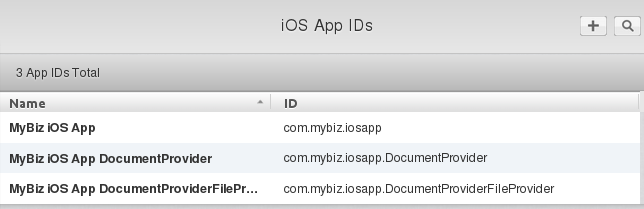
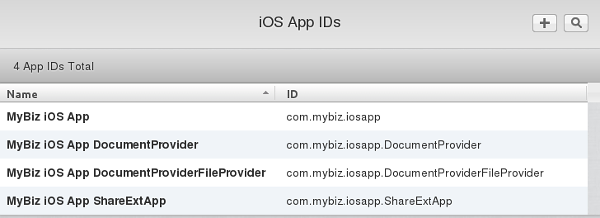
update provisioning profiles

diff --git a/admin_manual/enterprise_ios_app/publishing_ios_app_5.rst b/admin_manual/enterprise_ios_app/publishing_ios_app_5.rst
@@ -2,13 +2,16 @@
 Create Provisioning Profiles
 ============================
 
-The next phase of this glorious journey is to create three provisioning 
-profiles. These are the profiles that you will email to branding@owncloud.com 
-after building your branded app with the ownBrander app on 
-`Customer.owncloud.com <https://customer.owncloud.com/owncloud>`_.
+The next phase of this glorious journey is to create eight provisioning 
+profiles: 4 Ad Hoc and 4 App Store. You will email the four Ad Hoc profiles, 
+and your :doc:`P12 certificate <publishing_ios_app_6>` (which you will create 
+after your provisioning profiles), to branding@owncloud.com after building your 
+branded app with the ownBrander app on `Customer.owncloud.com 
+<https://customer.owncloud.com/owncloud>`_. Do not send us the App Store 
+profiles. All eight of these profiles must be stored on your Mac PC.
 
-First Provisioning Profile
---------------------------
+First Ad Hoc Provisioning Profile
+---------------------------------
 
 Go to **Provisioning Profiles > All**, then click the plus button (top right) 
 to open the *Add iOS Provisioning Profile* screen. Select **Ad Hoc** and click 
@@ -46,8 +49,8 @@ it in Xcode.
 
 .. figure:: ../images/cert-41.png
 
-Second Provisioning Profile
----------------------------
+Second Ad Hoc Provisioning Profile
+----------------------------------
 
 Return to the "Your provision profile is ready" screen, scroll to the bottom 
 and click **Add Another**. On the following screen select **Ad Hoc** and click 
@@ -55,8 +58,7 @@ and click **Add Another**. On the following screen select **Ad Hoc** and click
 
 .. figure:: ../images/cert-35.png
   
-This time select the Select the **.DocumentProvider** app ID and click 
-**Continue**.
+This time select the **.DocumentProvider** app ID and click **Continue**.
 
 .. figure:: ../images/cert-42.png
 
@@ -79,8 +81,8 @@ plus **.DocumentProvider** and click **Generate**.
 Just like the first provisioning profile, download it to your Mac computer, and 
 then double-click to install it in Xcode.
  
-Third Provisioning Profile
---------------------------
+Third Ad Hoc Provisioning Profile
+---------------------------------
 
 Return to the "Your provision profile is ready" screen, scroll to the bottom 
 and click **Add Another**. On the following screen select **Ad Hoc** and click 
@@ -88,10 +90,10 @@ and click **Add Another**. On the following screen select **Ad Hoc** and click
 
 .. figure:: ../images/cert-35.png
 
-This time select the Select the **.DocumentProviderFileProvider** app ID and 
-click **Continue**.
+This time select the **.DocumentProviderFileProvider** app ID and click 
+**Continue**.
 
-.. figure:: ../images/cert-46.png  
+.. figure:: ../images/cert-60.png  
    
 Select the certificate that you created at the beginning of this process and 
 click **Continue**.
@@ -111,11 +113,60 @@ be automatically truncated if you go over.
 
 .. figure:: ../images/cert-47.png
       
+Download it to your Mac computer, and then double-click to install it in Xcode.
+
+Fourth Ad Hoc Provisioning Profile
+----------------------------------
+
+Return to the "Your provision profile is ready" screen, scroll to the bottom 
+and click **Add Another**. On the following screen select **Ad Hoc** and click 
+**Continue**.
+
+.. figure:: ../images/cert-35.png
+
+This time select the **.ShareExtApp** app ID and click **Continue**.
+
+.. figure:: ../images/cert-46.png  
+   
+Select the certificate that you created at the beginning of this process and 
+click **Continue**.
+
+.. figure:: ../images/cert-43.png
+
+Select the devices that you want to install and test your app on, then click 
+**Continue**. These must be the same devices you selected for the first 
+provisioning profile.
+
+.. figure:: ../images/cert-39.png
+   
+Give this provisioning profile the same name as your first profile 
+plus **.ShareExtApp** and click **Generate**. There is a 
+50-character limit, but don't worry about counting characters because it will 
+be automatically truncated if you go over.  
+
+.. figure:: ../images/cert-58.png
+      
 Download it to your Mac computer, and then double-click to install it in Xcode. 
-You should now see all of your provisioning profiles listed in your "iOS 
+You should now see all of your Ad Hoc provisioning profiles listed in your "iOS 
 Provisioning Profiles".
 
-.. figure:: ../images/cert-52.png
+.. figure:: ../images/cert-59.png
 
-You have one more certificate to create, and that is your P12 certificate.   
+Create Four App Store Profiles
+------------------------------
+
+Creating your four App Store profiles is the same as creating your Ad Hoc 
+profiles, except that when you start you check the App Store checkbox, and you 
+won't select testing devices.
+
+.. figure:: ../images/cert-62.png
+
+When you're finished, you'll have eight new provisioning profiles. Remember, 
+when you build your app on ownBuilder you only send in the four Ad Hoc 
+profiles, plus your P12 certificate.
+
+.. figure:: ../images/cert-61.png
+
+Go to the next page to learn how to create your :doc:`P12 certificate 
+<publishing_ios_app_6>`.   
   

diff --git a/admin_manual/enterprise_ios_app/publishing_ios_app.rst b/admin_manual/enterprise_ios_app/publishing_ios_app.rst
@@ -11,7 +11,10 @@ Prerequisites
 =============
 
 * A Mac OS X computer with Xcode (free download) and Keychain Access 
-  (included in Utilities)
+  (included in Utilities). This computer is essential to the entire process 
+  and will be linked to to your iOS Developer account. You will use it 
+  create and store distribution certificates, and to upload your app to iTunes 
+  Connect.
 * An iOS developer account on 
   `Developer.Apple.com/ios <https://developer.apple.com/ios/>`_, 
   which costs $99 per year. Or an Enterprise account for $299/yr. The 
@@ -29,22 +32,24 @@ Prerequisites
 Procedure
 =========
   
-You need the Apple tools to build three provisioning profiles and a P12 
-certificate, which you will email to branding@owncloud.com after building your 
-app with the ownBrander app on `Customer.owncloud.com 
-<https://customer.owncloud.com/owncloud>`_. It is best to create the 
-provisioning profiles and P12 certificate first, before building your app, 
-because you must supply a unique **bundle ID** and an **app group** to build 
-your app. These are created in your account on `Developer.Apple.com 
-<https://developer.apple.com>`_, and with Keychain Access on your Mac computer.
+You need the Apple tools to build eight provisioning profiles (4 Ad Hoc and 4 
+App Store) and a P12 certificate. You will email the four Ad Hoc profiles and 
+P12 certificate to branding@owncloud.com after building your app with the 
+ownBrander app on `Customer.owncloud.com 
+<https://customer.owncloud.com/owncloud>`_. You must create the provisioning 
+profiles and P12 certificate first, before building your app, because you must 
+supply a unique **bundle ID** and an **app group** to build your app. These are 
+created in your account on `Developer.Apple.com 
+<https://developer.apple.com>`_, 
+and with Keychain Access on your Mac computer.
 
-We use the provisioning profiles and P12 certificate to complete building your 
-app, and then in 24-48 hours your new branded app is loaded into your account 
-on `Customer.owncloud.com <https://customer.owncloud.com/owncloud>`_.
+We use the 4 Ad Hoc provisioning profiles and P12 certificate to complete 
+building your app, and then in 24-48 hours your new branded app is loaded into 
+your account on `Customer.owncloud.com 
+<https://customer.owncloud.com/owncloud>`_.
 
-The next step is to test your app on your registered iOS devices. When it 
-passes testing, the final step is to upload it to your iTunes account for 
-distribution.
+The next step is to test your app. When it passes testing, the final step is to 
+upload it to your iTunes Connect account for distribution.
 
 You will need a lot of graphics for building your app, and for your iTunes 
 store listing, in specific sizes and file formats. The ownBrander app and 

diff --git a/admin_manual/enterprise_ios_app/publishing_ios_app_3.rst b/admin_manual/enterprise_ios_app/publishing_ios_app_3.rst
@@ -2,7 +2,7 @@
 Create Bundle IDs
 =================
 
-The next step is to create three **Bundle IDs**. These are unique identifiers 
+The next step is to create four **Bundle IDs**. These are unique identifiers 
 for your branded iOS app. You must also create an **App Group** and place your 
 three **Bundle IDs** in your **App Group**. You will need your base **Bundle 
 ID** and **App Group** when you build your app with the ownBrander app on 
@@ -49,7 +49,7 @@ The next step is to create an App Group and put your App ID in it. Go to
 .. figure:: ../images/cert-13.png
      
 Create a description for your app group, and a unique identifier in the format 
-*group.com.MyCompany.MyAppGroup*. Then click **Continue**.    
+*group.com.MyCompany.MyAppGroup*. Then click **Continue**
 
 .. figure:: ../images/cert-14.png
    
@@ -151,7 +151,43 @@ Select your group and click **Continue**.
 On the confirmation screen click **Assign**, and you'll see the message "You 
 have successfully updated the App Groups associations with your App ID." 
 
-Now you should have three new App IDs, and all three of them should belong to 
+Create a ShareExtApp Bundle ID
+------------------------------
+
+This supports Apple's ShareIN extension. 
+
+Yet again, go to **Identifiers > App IDs** and click the plus button to create a 
+ShareExtApp Bundle ID. Follow the same naming conventions as for your App ID, 
+then click **Continue**.
+
+.. figure:: ../images/cert-53.png
+   
+Confirm your new App ID and click **Submit**.
+
+.. figure:: ../images/cert-54.png
+
+You will see one more confirmation; review it and click **Done**. Now you need 
+to add it to your App Group. Go to **Identifiers > App IDs** and click on your 
+new ShareExtApp Bundle ID to open its configuration window, and 
+then click the **Edit** button. 
+
+.. figure:: ../images/cert-55.png
+   
+Select **App Groups** and click the **Edit** button.   
+
+.. figure:: ../images/cert-56.png
+
+Select your group and click **Continue**.
+
+.. figure:: ../images/cert-57.png
+    
+On the confirmation screen click **Assign**, and you'll see the message "You 
+have successfully updated the App Groups associations with your App ID." 
+
+Four Completed App IDs
+----------------------
+
+Now you should have four new App IDs, and all of them should belong to 
 your App Group.
 
 .. figure:: ../images/cert-37.png

diff --git a/admin_manual/enterprise_ios_app/publishing_ios_app_2.rst b/admin_manual/enterprise_ios_app/publishing_ios_app_2.rst
@@ -2,8 +2,9 @@
 Create Certificate Signing Request
 ==================================
 
-Create a :file:`.certSigningRequest` (CSR) file on your Mac, using Keychain 
-Access. Open Finder, and then open Keychain Access from the Utilities folder.
+Start by creating a :file:`.certSigningRequest` (CSR) file on your Mac, using 
+Keychain Access. Open Finder, and then open Keychain Access from the Utilities 
+folder.
     
 .. figure:: ../images/mac-1.png
 
@@ -50,8 +51,7 @@ Then click **iOS Apps > Certificates**.
 
 .. figure:: ../images/cert-2.png
 
-Next, click the add button (the little plus sign) in the top right corner of 
-the 
+Next, click the add button (the little plus sign) in the top right corner of the 
 **iOS Certificate** page.
 
 .. figure:: ../images/cert-3.png

diff --git a/admin_manual/enterprise_ios_app/publishing_ios_app_7.rst b/admin_manual/enterprise_ios_app/publishing_ios_app_7.rst
@@ -119,7 +119,7 @@ Generate iOS App
 
 When you have uploaded all of your images and completed your customizations, 
 click the **Generate iOS App** button and take a well-deserved break. Remember 
-to email your three provisioning profiles and P12 certificate to 
+to email your four Ad Hoc provisioning profiles and P12 certificate to 
 branding@owncloud.com.
 
 .. figure:: ../images/ownbrander-28.png

diff --git a/admin_manual/enterprise_ios_app/publishing_ios_app_6.rst b/admin_manual/enterprise_ios_app/publishing_ios_app_6.rst
@@ -2,7 +2,7 @@
 Creating a P12 Certificate
 ==========================
 
-In addition to emailing your three provisioning profiles to 
+In addition to emailing your four Ad Hoc provisioning profiles to 
 branding@owncloud.com, you must also include your P12 certificate. To create 
 this, return to Keychain Access on your Mac computer and find your private key 
 that you created at the beginning (see 
